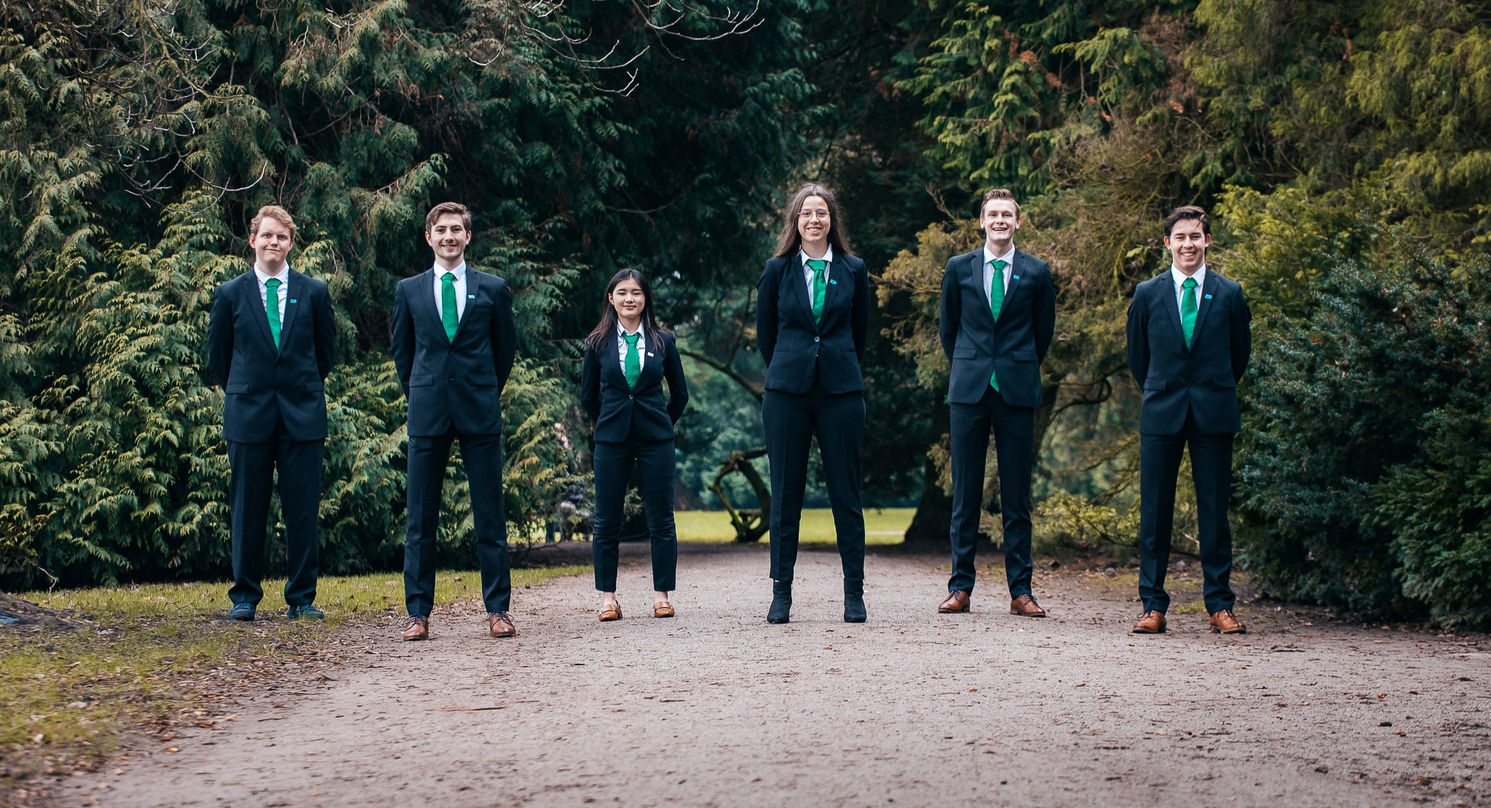
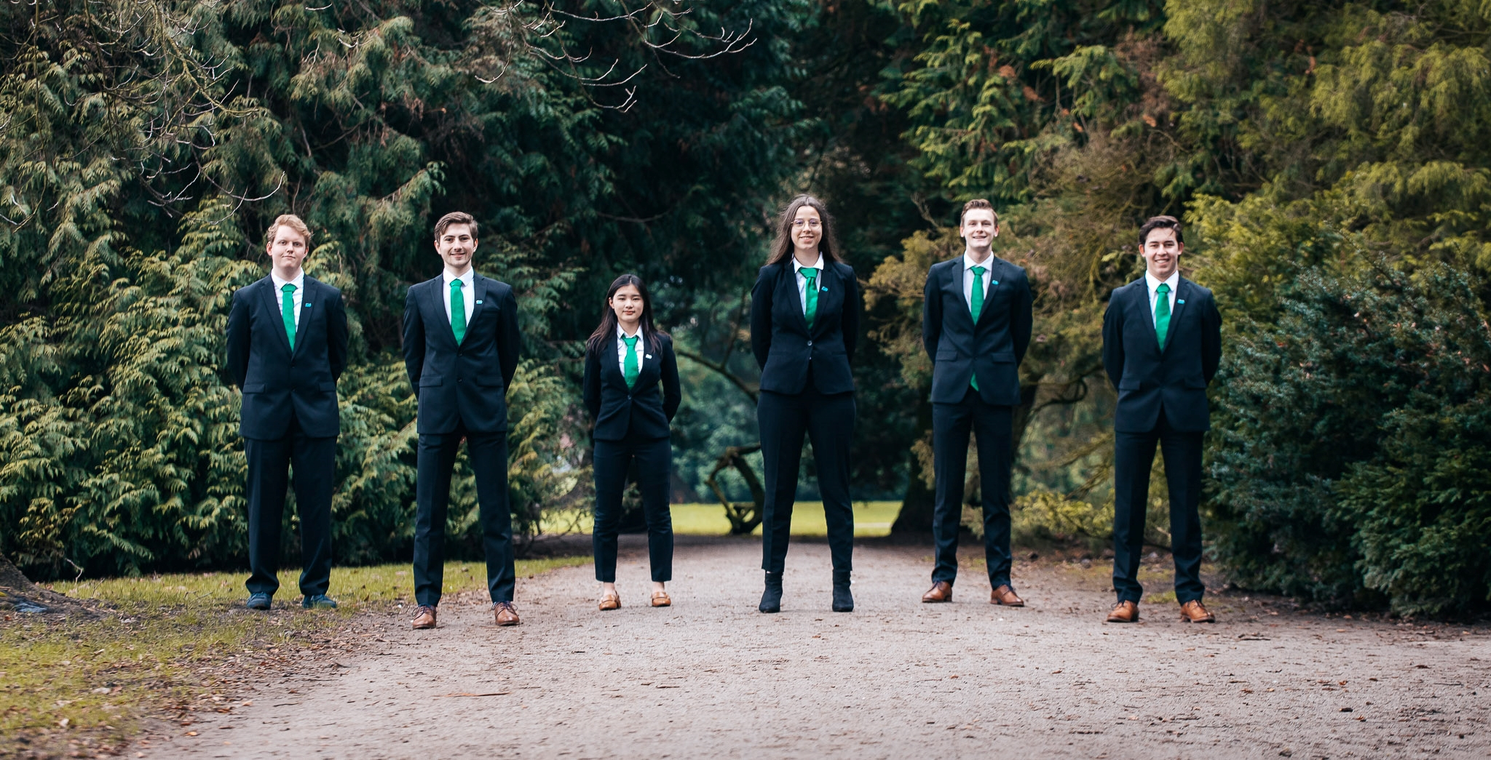
Changed committee picture to lower res and fixed titles of CVA

diff --git a/zephyrus/templates/zephyrus/committees/index.html b/zephyrus/templates/zephyrus/committees/index.html
@@ -217,7 +217,7 @@
                         <div class="row">
                             <div
                                     class="cva col-10 offset-1 d-flex justify-content-center function align-items-center text-wrapper">
-                                <p><b>Vadim Zaytsev</b><br><i>Programme Director Technical Computer Science</i></p>
+                                <p><b>Vadim Zaytsev</b><br><i>Programme Director TCS</i></p>
                             </div>
                         </div>
                     </div>
@@ -230,8 +230,7 @@
                         <div class="row">
                             <div
                                     class="cva col-10 offset-1 d-flex justify-content-center function align-items-center text-wrapper">
-                                <p><b>Arend Rensink</b><br><i>EEMCS Faculty Board &amp; Former Programme Director
-                                    TCS</i>
+                                <p><b>Arend Rensink</b><br><i>EEMCS Faculty Board</i>
                                 </p>
                             </div>
                         </div>
@@ -249,7 +248,7 @@
                         <div class="row">
                             <div
                                     class="cva col-10 offset-1 d-flex justify-content-center function align-items-center text-wrapper">
-                                <p><b>Maria Iacob</b><br><i>Programme Director Business Information Technology</i></p>
+                                <p><b>Maria Iacob</b><br><i>Programme Director BIT</i></p>
                             </div>
                         </div>
                     </div>
